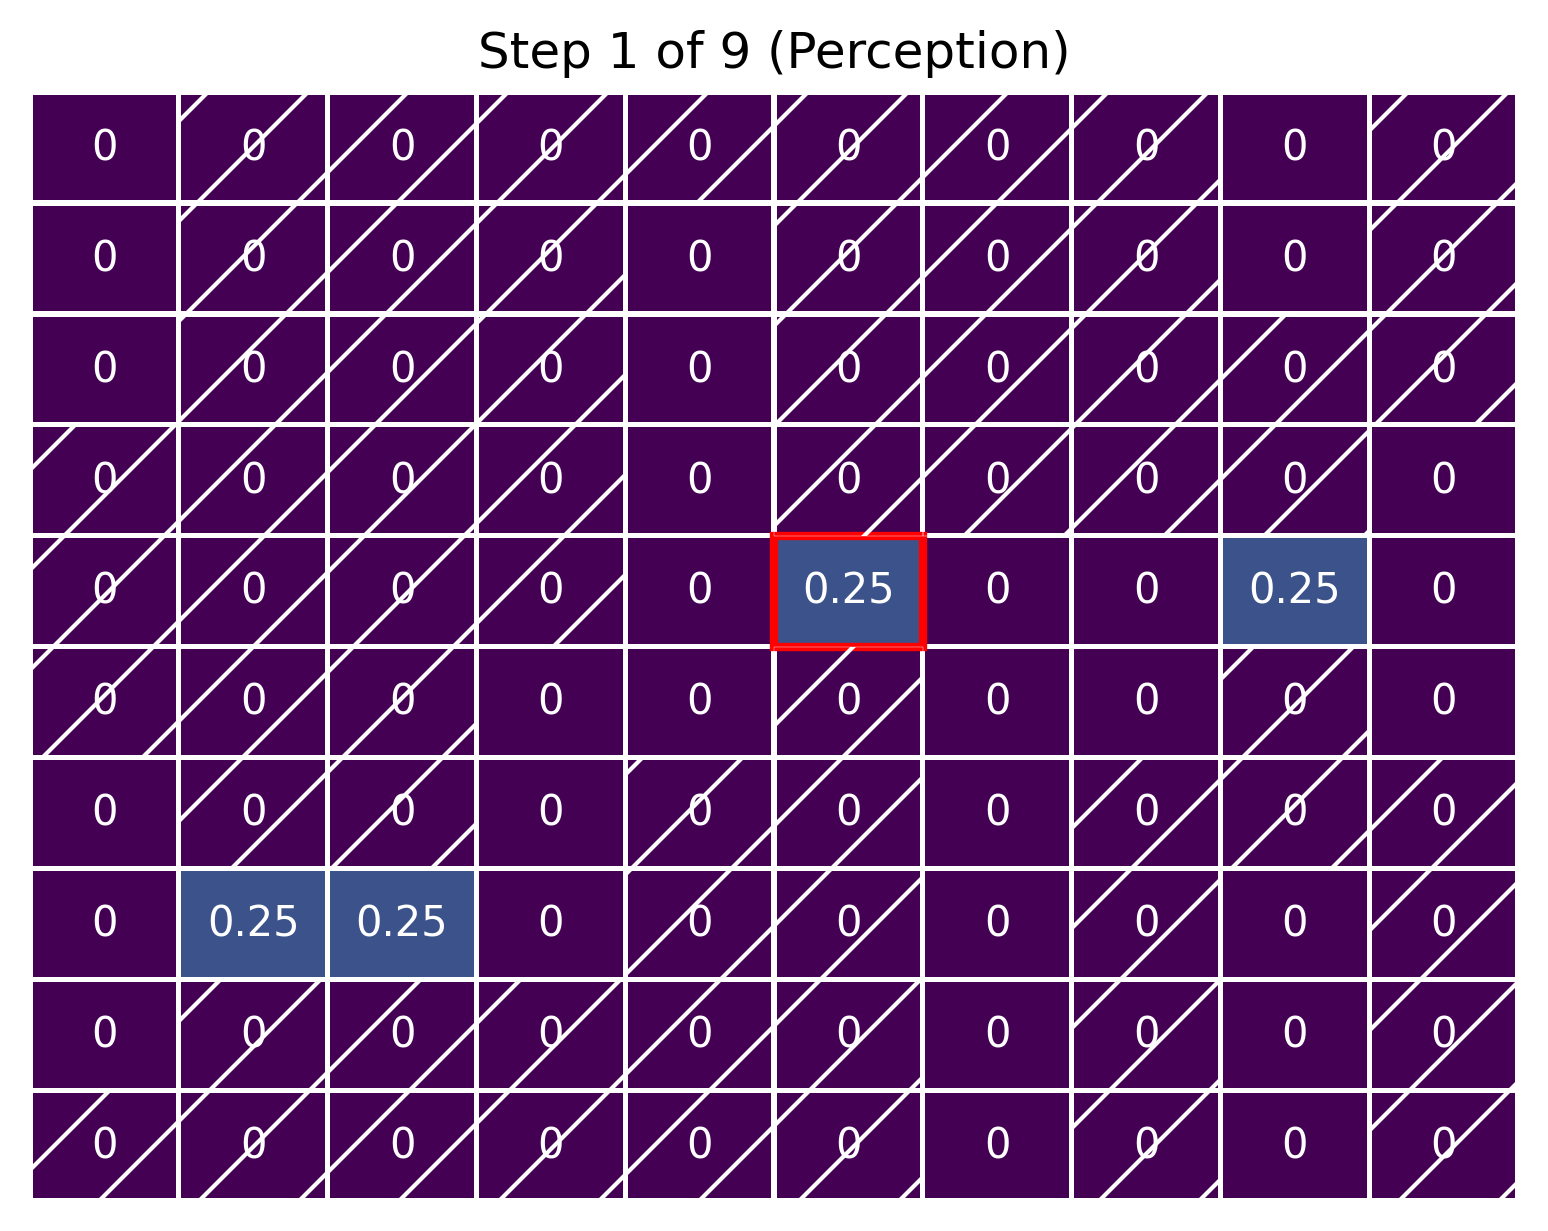
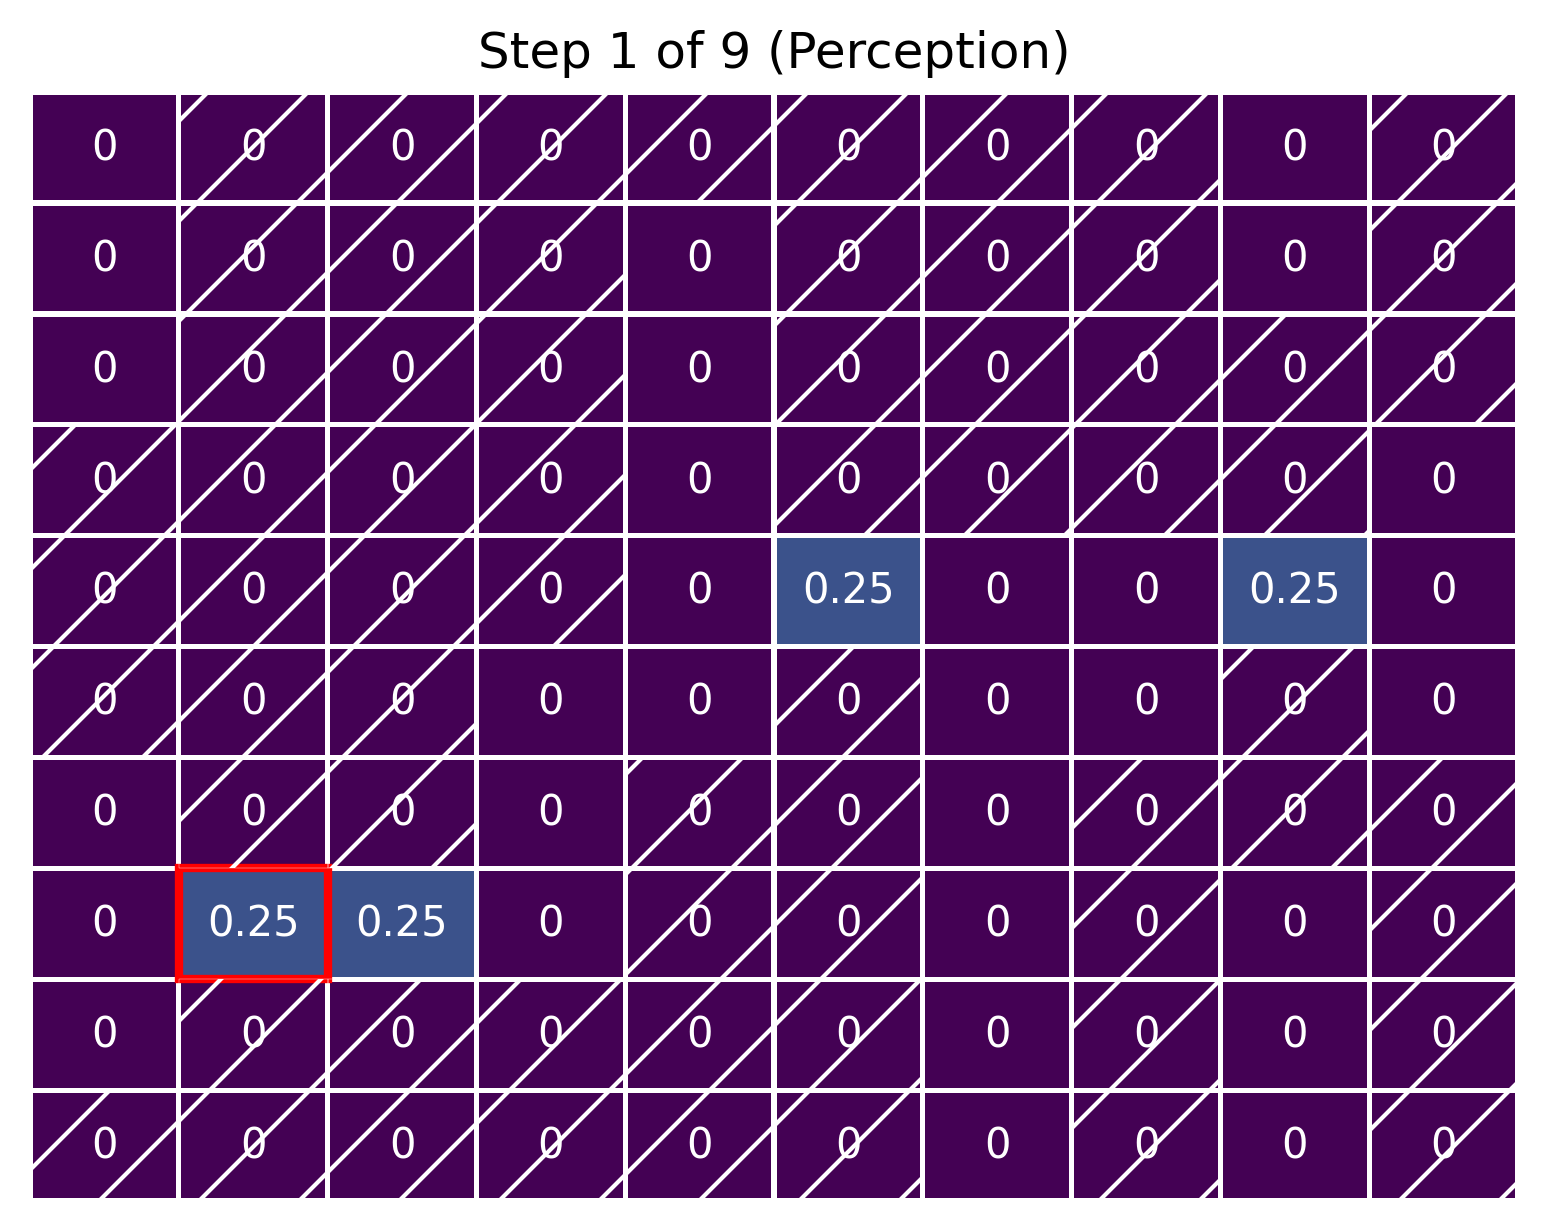
Make seed great again.

Changed region(s): [[0.4961, 0.4322, 0.6202, 0.5556], [0.093, 0.6791, 0.2171, 0.8026]]

diff --git a/markov-localization/localization.py b/markov-localization/localization.py
@@ -3,7 +3,7 @@ import numpy as np
 from numpy.lib.npyio import save
 from environment import State, Stage, Direction, Environment
 
-np.random.seed(68)
+np.random.seed(72)
 
 if __name__ == "__main__":
     map = [
@@ -29,6 +29,8 @@ if __name__ == "__main__":
 
     # print(env)
     # print(f"Initial {belief = }")
+
+    env.render(belief, title="Initial belief", save_only=True)
 
     actions = [
         [Stage.PERCEPTION],
